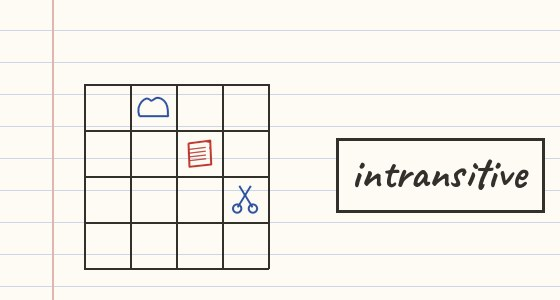
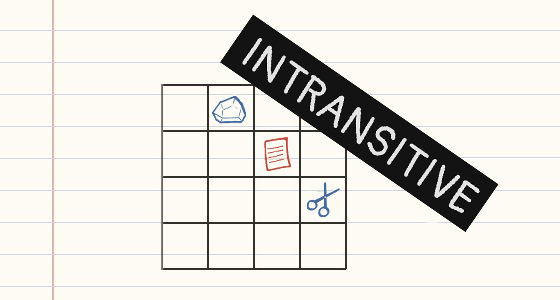
Make home page and intransitive look better

Changed region(s): [[0.1518, 0.06, 1.0, 0.9]]

diff --git a/client/intransitive/css/index.css b/client/intransitive/css/index.css
@@ -1,1 +1,1 @@
-:root{--paper: #fdfbf4;--paper-shade: #f4efe1;--rule: #ccd6e6;--rule-line: #e3ebf7;--margin: #e2b5b0;--ink: #33302c;--ink-soft: #8a8272;--blue: #2b4c9b;--red: #b5342c;--hand: "Patrick Hand", cursive;--head: "Kalam", cursive;--title: "Caveat", cursive}body{background-color:var(--paper);background-image:repeating-linear-gradient(to bottom, transparent 0 31px, var(--rule-line) 31px 32px);color:var(--ink);font-family:var(--hand);font-size:12pt}h1,h2{font-family:var(--head);color:var(--ink);letter-spacing:.02em}h2{margin-bottom:6px;border-bottom:1px dashed var(--rule);font-weight:400}a{color:var(--blue)}.title-row{display:flex;flex-wrap:wrap;align-items:center}.game-title{font-family:var(--title);font-size:34pt;font-weight:700;margin:0;padding:0 10px 0 2px;text-shadow:1px 1px 0 rgba(43,76,155,.25)}.misc-links{color:var(--ink-soft);padding:4px 2px 8px}#board{border:1px solid var(--rule);box-shadow:2px 2px 0 rgba(51,48,44,.08);touch-action:none}#timers{display:none;align-items:center;gap:10px;margin-left:auto}.blitz-timer{display:flex;flex-direction:column;align-items:center;padding:4px 14px;border:1px solid var(--rule);background-color:var(--paper);color:var(--ink-soft)}.blitz-timer.running{color:var(--ink);border-color:var(--ink-soft)}.blitz-timer-label{font-size:9pt;letter-spacing:.14em}.blitz-timer-time{font-family:var(--head);font-size:16pt}.right-container{margin-top:10px;padding-left:14px;border-left:2px solid var(--margin)}.js-tabs{display:flex;flex-wrap:wrap;margin-top:10px;font-family:var(--head);font-size:13pt}.js-tabs>div{padding:5px 18px;background-color:var(--paper-shade);border:1px solid var(--rule);border-bottom:none;border-top:3px solid rgba(0,0,0,0);color:var(--ink-soft);cursor:pointer}.js-tabs>div.active{background-color:var(--paper);border-top:3px solid var(--blue);color:var(--ink)}.js-tab-container>div:nth-child(3),.js-tab-container>div:nth-child(4){max-width:500px;font-size:15pt;line-height:1.25;overflow-wrap:break-word}.js-tab-container>div:nth-child(3) ol,.js-tab-container>div:nth-child(3) ul,.js-tab-container>div:nth-child(4) ol,.js-tab-container>div:nth-child(4) ul{font-size:13.75pt;line-height:1.25}.players{line-height:30pt;vertical-align:middle;position:relative;font-size:14pt;margin-right:20px;margin-top:10px}.players.missing{opacity:.35;cursor:not-allowed}.js-tab-container>div:nth-child(2)>.players:first-child{padding-top:20px}.players-split{display:flex;flex-direction:row;flex-wrap:wrap}.piece{display:none}.piece.blue{background-color:var(--blue)}.piece.red{background-color:var(--red)}.player{padding:4px 14px;border:1px solid var(--ink);font-family:var(--head);transition:background-color .1s,color .1s}.player.blue{background-color:var(--blue);border-color:var(--blue);color:var(--paper)}.player.red{background-color:var(--red);border-color:var(--red);color:var(--paper)}#lobby-settings{display:none;flex-wrap:wrap;gap:16px;padding:10px 0}.lobby-setting{display:flex;flex-direction:column}.lobby-setting label{font-size:10pt;color:var(--ink-soft);margin-bottom:4px;letter-spacing:.06em}.lobby-setting select{outline:none;padding:6px 8px;border:1px solid var(--rule);border-bottom:2px solid var(--ink-soft);background-color:var(--paper);color:var(--ink);font-family:var(--hand);font-size:11pt;min-width:130px;cursor:pointer}.lobby-setting select:hover{border-color:var(--ink-soft)}.lobby-setting select:disabled{opacity:.45;cursor:not-allowed}#disabled-reason{padding:6px 0;color:var(--red);font-size:12pt}.game-link{font-size:12pt;margin-bottom:0;border-bottom:1px solid var(--ink-soft);white-space:nowrap;color:var(--ink);background-color:var(--paper-shade);padding:10px;overflow-x:auto;cursor:pointer;user-select:none}.game-link>small{color:var(--ink-soft)}.game-link.flash{animation:flash .3s ease-in-out 0s}@keyframes flash{50%{background-color:#e5ddc8}}ol,ul{font-size:11pt;line-height:1.5}li{margin-bottom:6px}b{color:var(--blue)}button{font-family:var(--head);font-size:12pt;padding:6px 18px;border:1px solid var(--ink);border-bottom:2px solid var(--ink);background-color:var(--paper);color:var(--ink);cursor:pointer}button:hover{background-color:var(--paper-shade)}.modal-darken{position:fixed;top:0;left:0;width:100vw;height:100vh;background-color:rgba(51,48,44,.45);z-index:1000}.modal{position:fixed;bottom:20px;right:20px;z-index:1001;min-width:340px;padding:24px;background-color:var(--paper);border:1px solid var(--rule);box-shadow:3px 3px 0 rgba(51,48,44,.15)}.modal h1{font-family:var(--title);font-size:30pt;margin:0 0 10px}/*# sourceMappingURL=index.css.map */
+:root{--paper: #fdfbf4;--paper-shade: #f4efe1;--rule: #ccd6e6;--rule-line: #e3ebf7;--margin: #e2b5b0;--ink: #33302c;--ink-soft: #8a8272;--blue: #2b4c9b;--red: #b5342c;--hand: "Pangolin", cursive;--title: "Pangolin", cursive}body{background-color:var(--paper);background-image:repeating-linear-gradient(to bottom, transparent 0 15px, var(--rule-line) 15px 16px);color:var(--ink);font-family:var(--hand);font-size:11pt}h1,h2{font-family:var(--title);color:var(--ink);letter-spacing:.02em}h2{margin-bottom:6px;border-bottom:1px dashed var(--rule);font-weight:400}a{color:var(--blue)}.title-row{display:flex;flex-wrap:wrap;align-items:center}.game-title{font-family:var(--title);font-size:25pt;font-weight:700;margin:0;padding:0 10px 0 2px;text-shadow:1px 1px 0 rgba(43,76,155,.25)}.misc-links{color:var(--ink-soft);padding:4px 2px 8px}#board{border:1px solid var(--rule);box-shadow:2px 2px 0 rgba(51,48,44,.08);touch-action:none}#timers{display:none;align-items:center;gap:10px;margin-left:auto}.blitz-timer{display:flex;flex-direction:column;align-items:center;padding:4px 14px;border:1px solid var(--rule);background-color:var(--paper);color:var(--ink-soft)}.blitz-timer.running{color:var(--ink);border-color:var(--ink-soft)}.blitz-timer-label{font-size:7.65pt;letter-spacing:.14em}.blitz-timer-time{font-family:var(--hand);font-size:13.6pt}.right-container{margin-top:10px;margin-left:10px;padding-left:10px}.js-tabs{display:flex;flex-wrap:wrap;margin-top:10px;border-bottom:1px solid var(--margin);font-family:var(--hand);font-size:11.05pt}.js-tabs>div{padding:5px 18px;background-color:var(--paper-shade);border:1px solid var(--rule);border-bottom:none;border-top:3px solid rgba(0,0,0,0);color:var(--ink-soft);cursor:pointer}.js-tabs>div.active{background-color:var(--paper);border-top:3px solid var(--blue);color:var(--ink)}.js-tab-container>div:nth-child(3),.js-tab-container>div:nth-child(4){max-width:500px;font-size:11pt;line-height:1.25;overflow-wrap:break-word}.js-tab-container>div:nth-child(3) ol,.js-tab-container>div:nth-child(3) ul,.js-tab-container>div:nth-child(4) ol,.js-tab-container>div:nth-child(4) ul{font-size:11pt;line-height:1.25}.players{line-height:30pt;vertical-align:middle;position:relative;font-size:11.9pt;margin-right:20px;margin-top:10px}.players.missing{opacity:.35;cursor:not-allowed}.js-tab-container>div:nth-child(2)>.players:first-child{padding-top:10px}.players-split{display:flex;flex-direction:row;flex-wrap:wrap}.piece{display:none}.piece.blue{background-color:var(--blue)}.piece.red{background-color:var(--red)}.player{padding:4px 14px;border:1px solid var(--ink);font-family:var(--hand);transition:background-color .1s,color .1s}.player.blue{background-color:var(--blue);border-color:var(--blue);color:var(--paper)}.player.red{background-color:var(--red);border-color:var(--red);color:var(--paper)}#youare{margin-left:6px}#lobby-settings{display:none;flex-wrap:wrap;gap:16px;padding:10px 0}.lobby-setting{display:flex;flex-direction:column}.lobby-setting label{font-size:8.5pt;color:var(--ink-soft);margin-bottom:4px;letter-spacing:.06em}.lobby-setting select{outline:none;padding:6px 8px;border:1px solid var(--rule);border-bottom:2px solid var(--ink-soft);background-color:var(--paper);color:var(--ink);font-family:var(--hand);font-size:9.35pt;min-width:130px;cursor:pointer}.lobby-setting select:hover{border-color:var(--ink-soft)}.lobby-setting select:disabled{opacity:.45;cursor:not-allowed}#disabled-reason{padding:6px 0;color:var(--red);font-size:10.2pt}.game-link{font-size:10.2pt;margin-bottom:0;border-bottom:1px solid var(--ink-soft);white-space:nowrap;color:var(--ink);background-color:var(--paper-shade);padding:10px;overflow-x:auto;cursor:pointer;user-select:none}.game-link>small{color:var(--ink-soft)}.game-link.flash{animation:flash .3s ease-in-out 0s}@keyframes flash{50%{background-color:#e5ddc8}}ol,ul{font-size:9.35pt;line-height:1.5}li{margin-bottom:3px}b{color:var(--blue)}button{font-family:var(--hand);font-size:10.2pt;padding:6px 18px;border:1px solid var(--ink);border-bottom:2px solid var(--ink);background-color:var(--paper);color:var(--ink);cursor:pointer}button:hover{background-color:var(--paper-shade)}.modal-darken{position:fixed;top:0;left:0;width:100vw;height:100vh;background-color:rgba(51,48,44,.45);z-index:1000}.modal{position:fixed;bottom:20px;right:20px;z-index:1001;min-width:340px;padding:24px;background-color:var(--paper);border:1px solid var(--rule);box-shadow:3px 3px 0 rgba(51,48,44,.15)}.modal h1{font-family:var(--title);font-size:25.5pt;margin:0 0 10px}/*# sourceMappingURL=index.css.map */

diff --git a/scss/intransitive/css/index.scss b/scss/intransitive/css/index.scss
@@ -9,24 +9,23 @@
     --ink-soft: #8a8272;
     --blue: #2b4c9b;
     --red: #b5342c;
-    --hand: 'Patrick Hand', cursive;
-    --head: 'Kalam', cursive;
-    --title: 'Caveat', cursive;
+    --hand: 'Pangolin', cursive;
+    --title: 'Pangolin', cursive;
 }
 
 body {
     background-color: var(--paper);
     background-image:
         repeating-linear-gradient(to bottom,
-            transparent 0 31px, var(--rule-line) 31px 32px);
+            transparent 0 15px, var(--rule-line) 15px 16px);
     color: var(--ink);
     font-family: var(--hand);
-    font-size: 12pt;
+    font-size: 11pt;
 }
 
 h1,
 h2 {
-    font-family: var(--head);
+    font-family: var(--title);
     color: var(--ink);
     letter-spacing: 0.02em;
 }
@@ -49,7 +48,7 @@ a {
 
 .game-title {
     font-family: var(--title);
-    font-size: 34pt;
+    font-size: 25pt;
     font-weight: 700;
     margin: 0;
     padding: 0 10px 0 2px;
@@ -93,21 +92,20 @@ a {
 }
 
 .blitz-timer-label {
-    font-size: 9pt;
+    font-size: 7.65pt;
     letter-spacing: 0.14em;
 }
 
 .blitz-timer-time {
-    font-family: var(--head);
-    font-size: 16pt;
+    font-family: var(--hand);
+    font-size: 13.6pt;
 }
 
 // Right hand column
 .right-container {
     margin-top: 10px;
-    padding-left: 14px;
-    // Red margin rule down the page
-    border-left: 2px solid var(--margin);
+    margin-left: 10px;
+    padding-left: 10px;
 }
 
 // Tabs, drawn like notebook index tabs
@@ -115,8 +113,9 @@ a {
     display: flex;
     flex-wrap: wrap;
     margin-top: 10px;
-    font-family: var(--head);
-    font-size: 13pt;
+    border-bottom: 1px solid var(--margin);
+    font-family: var(--hand);
+    font-size: 11.05pt;
 
     >div {
         padding: 5px 18px;
@@ -139,13 +138,13 @@ a {
 .js-tab-container>div:nth-child(3),
 .js-tab-container>div:nth-child(4) {
     max-width: 500px;
-    font-size: 15pt;
+    font-size: 11pt;
     line-height: 1.25;
     overflow-wrap: break-word;
 
     ol,
     ul {
-        font-size: 13.75pt;
+        font-size: 11pt;
         line-height: 1.25;
     }
 }
@@ -155,7 +154,7 @@ a {
     line-height: 30pt;
     vertical-align: middle;
     position: relative;
-    font-size: 14pt;
+    font-size: 11.9pt;
     margin-right: 20px;
     margin-top: 10px;
 
@@ -167,7 +166,7 @@ a {
 
 // The turn banner sits lower than the tabs
 .js-tab-container>div:nth-child(2)>.players:first-child {
-    padding-top: 20px;
+    padding-top: 10px;
 }
 
 .players-split {
@@ -191,7 +190,7 @@ a {
 .player {
     padding: 4px 14px;
     border: 1px solid var(--ink);
-    font-family: var(--head);
+    font-family: var(--hand);
     transition: background-color 0.1s, color 0.1s;
 
     &.blue {
@@ -207,6 +206,10 @@ a {
     }
 }
 
+#youare {
+    margin-left: 6px;
+}
+
 // Host settings
 #lobby-settings {
     display: none;
@@ -220,7 +223,7 @@ a {
     flex-direction: column;
 
     label {
-        font-size: 10pt;
+        font-size: 8.5pt;
         color: var(--ink-soft);
         margin-bottom: 4px;
         letter-spacing: 0.06em;
@@ -234,7 +237,7 @@ a {
         background-color: var(--paper);
         color: var(--ink);
         font-family: var(--hand);
-        font-size: 11pt;
+        font-size: 9.35pt;
         min-width: 130px;
         cursor: pointer;
 
@@ -252,12 +255,12 @@ a {
 #disabled-reason {
     padding: 6px 0;
     color: var(--red);
-    font-size: 12pt;
+    font-size: 10.2pt;
 }
 
 // Invite link
 .game-link {
-    font-size: 12pt;
+    font-size: 10.2pt;
     margin-bottom: 0;
     border-bottom: 1px solid var(--ink-soft);
     white-space: nowrap;
@@ -286,12 +289,12 @@ a {
 // Page body copy
 ol,
 ul {
-    font-size: 11pt;
+    font-size: 9.35pt;
     line-height: 1.5;
 }
 
 li {
-    margin-bottom: 6px;
+    margin-bottom: 3px;
 }
 
 b {
@@ -299,8 +302,8 @@ b {
 }
 
 button {
-    font-family: var(--head);
-    font-size: 12pt;
+    font-family: var(--hand);
+    font-size: 10.2pt;
     padding: 6px 18px;
     border: 1px solid var(--ink);
     border-bottom: 2px solid var(--ink);
@@ -337,7 +340,7 @@ button {
 
     h1 {
         font-family: var(--title);
-        font-size: 30pt;
+        font-size: 25.5pt;
         margin: 0 0 10px;
     }
 }

diff --git a/client/css/index.css b/client/css/index.css
@@ -1,1 +1,1 @@
-body{padding:30px;font-family:"Lato",sans-serif;background-color:#fafafa}h1,h2,h3,h4,h5,h6{font-family:"Raleway",sans-serif}.heading{margin:0}:root{--shadow-color: 0deg 0% 66%;--shadow-elevation-low: 0px 0.6px 0.5px hsl(var(--shadow-color) / 0.91), 0px 2.3px 1.7px -4.9px hsl(var(--shadow-color) / 0.46);--shadow-elevation-medium: 0px 0.6px 0.5px hsl(var(--shadow-color) / 0.84), 0px 2px 1.5px -2.5px hsl(var(--shadow-color) / 0.57), -0.2px 11.5px 8.7px -4.9px hsl(var(--shadow-color) / 0.29);--shadow-elevation-high: 0px 0.6px 0.5px hsl(var(--shadow-color) / 0.94), 0px 1.5px 1.1px -1.2px hsl(var(--shadow-color) / 0.76), -0.1px 7.4px 5.6px -2.5px hsl(var(--shadow-color) / 0.57), -0.3px 23.3px 17.7px -3.7px hsl(var(--shadow-color) / 0.38), -0.7px 54.3px 41.1px -4.9px hsl(var(--shadow-color) / 0.2)}.card{width:300px;height:269px;max-width:90%;display:inline-block;margin:0 15px 15px 0;vertical-align:top;text-decoration:none;color:#000;box-shadow:var(--shadow-elevation-low);transition:box-shadow .2s;background-color:#fff}.card>.body{padding:15px}.card>.body>h2{font-size:15pt;margin:0}.card>.body>p{margin:5px 0;overflow:hidden;text-overflow:ellipsis;font-size:11pt}.card>img{width:100%;height:170px;object-fit:cover}.card:hover{box-shadow:var(--shadow-elevation-medium);cursor:pointer}/*# sourceMappingURL=index.css.map */
+body{padding:30px;font-family:"Lato",sans-serif;background-color:#fafafa}h1,h2,h3,h4,h5,h6{font-family:"Raleway",sans-serif}.heading{margin:0}:root{--shadow-color: 0deg 0% 66%;--shadow-elevation-low: 0px 0.6px 0.5px hsl(var(--shadow-color) / 0.91), 0px 2.3px 1.7px -4.9px hsl(var(--shadow-color) / 0.46);--shadow-elevation-medium: 0px 0.6px 0.5px hsl(var(--shadow-color) / 0.84), 0px 2px 1.5px -2.5px hsl(var(--shadow-color) / 0.57), -0.2px 11.5px 8.7px -4.9px hsl(var(--shadow-color) / 0.29);--shadow-elevation-high: 0px 0.6px 0.5px hsl(var(--shadow-color) / 0.94), 0px 1.5px 1.1px -1.2px hsl(var(--shadow-color) / 0.76), -0.1px 7.4px 5.6px -2.5px hsl(var(--shadow-color) / 0.57), -0.3px 23.3px 17.7px -3.7px hsl(var(--shadow-color) / 0.38), -0.7px 54.3px 41.1px -4.9px hsl(var(--shadow-color) / 0.2)}.card{width:240px;height:220px;max-width:90%;display:inline-block;margin:0 10px 10px 0;vertical-align:top;text-decoration:none;color:#000;box-shadow:var(--shadow-elevation-low);transition:box-shadow .2s;background-color:#fff}.card>.body{padding:10px}.card>.body>h2{font-size:12pt;margin:0}.card>.body>p{margin:5px 0;overflow:hidden;text-overflow:ellipsis;font-size:10pt}.card>img{width:100%;height:140px;object-fit:cover}.card:hover{box-shadow:var(--shadow-elevation-medium);cursor:pointer}/*# sourceMappingURL=index.css.map */

diff --git a/scss/css/index.scss b/scss/css/index.scss
@@ -31,11 +31,11 @@ h1, h2, h3, h4, h5, h6 {
 }
 
 .card {
-    width: 300px;
-    height: 269px;
+    width: 240px;
+    height: 220px;
     max-width: 90%;
     display: inline-block;
-    margin: 0 15px 15px 0;
+    margin: 0 10px 10px 0;
     vertical-align: top;
 
     text-decoration: none;
@@ -47,11 +47,11 @@ h1, h2, h3, h4, h5, h6 {
 
     // Card body
     & > .body {
-        padding: 15px;
+        padding: 10px;
 
         // Card title
         & > h2 {
-            font-size: 15pt;
+            font-size: 12pt;
             margin: 0;
         }
 
@@ -60,14 +60,14 @@ h1, h2, h3, h4, h5, h6 {
             // white-space: nowrap;
             overflow: hidden;
             text-overflow: ellipsis;
-            font-size: 11pt;
+            font-size: 10pt;
         }
     }
 
     // Card image
     & > img {
         width: 100%;
-        height: 170px;
+        height: 140px;
         object-fit: cover;
     }
 }

diff --git a/client/intransitive/js/game.js b/client/intransitive/js/game.js
@@ -234,7 +234,7 @@ function drawGrid() {
 /** Draw the column and row labels */
 function drawLabels() {
     ctx.fillStyle = LABEL_COLOR;
-    ctx.font = `${Math.round(cellSize * 0.42)}px "Patrick Hand", sans-serif`;
+    ctx.font = `${Math.round(cellSize * 0.3)}px ${getComputedStyle(document.documentElement).getPropertyValue('--title')}`;
     ctx.textAlign = 'center';
     ctx.textBaseline = 'middle';
 
@@ -399,3 +399,4 @@ window.onresize = () => {
 };
 window.onresize();
 loadPieces();
+document.fonts.ready.then(drawBoard);

diff --git a/client/intransitive/index.html b/client/intransitive/index.html
@@ -19,7 +19,7 @@
     <link rel="preconnect" href="https://fonts.googleapis.com">
     <link rel="preconnect" href="https://fonts.gstatic.com" crossorigin>
     <link
-        href="https://fonts.googleapis.com/css2?family=Caveat:wght@600;700&family=Kalam:wght@300;400&family=Patrick+Hand&display=swap"
+        href="https://fonts.googleapis.com/css2?family=Pangolin&display=swap"
         rel="stylesheet">
     <link rel="stylesheet" href="/shared/css/index.css">
     <link rel="stylesheet" href="css/index.css">
